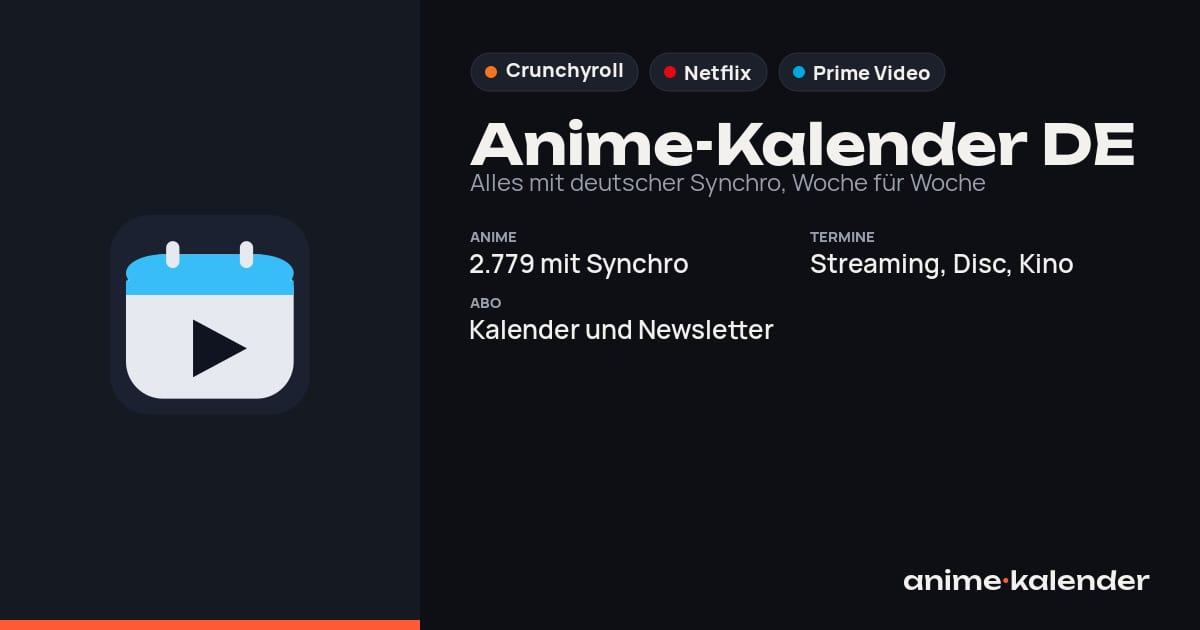
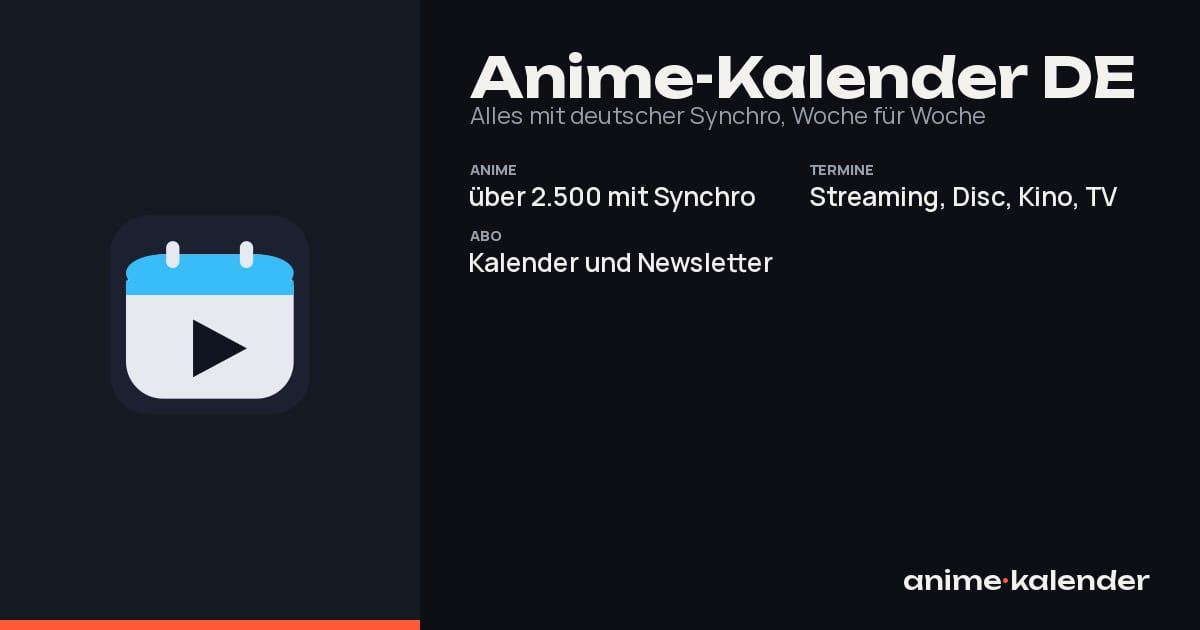
fix(og): Standard-Vorschaubild bleibt aktuell (über 2.900, ohne Plattform-Chips) (#1158)
* refactor(og): Inhalt des Standard-Vorschaubilds nach lib/og-standard.ts (Ausgabe byteidentisch)

Vorher/nachher: default.jpg mit alter und neuer Fassung erzeugt, SHA-1 gleich (61f3bc06...).

* fix(og): Standard-Vorschaubild bleibt aktuell (Kennung statt nur-wenn-fehlt, über 2.900, ohne Plattform-Chips)

Zeichnet default.jpg neu, sobald sich Zahl, Texte oder Fassung ändern (public/og/default.txt); Zahl auf Hunderter abgerundet. og:image von Startseite, Titelseiten und Verzeichnis trägt dieselbe Kennung als ?v=. Test: tools/og-standard.test.ts.

* fix(og): Titelzahl im Standardbild aus belegtCount (über 2.500 mit Synchro)

titleCount (2924) zählt auch Titel ohne belegte Synchro; belegt sind 2546. Test und Kennung angepasst.

* test(og): Meldungstext der Hunderterschwelle nennt 2.600

---------

diff --git a/pipeline/build-share-pages.ts b/pipeline/build-share-pages.ts
@@ -34,6 +34,7 @@ import { titelAenderung } from './lib/sitemap-datum.ts'
 import { cartoonMitSynchroBeleg, teilenPfad } from '../shared/teilen.ts'
 import { synchroBelegt } from '../shared/titles.ts'
 import { OG_FASSUNG } from './lib/og-fassung.ts'
+import { standardKennungFuer } from './lib/og-standard.ts'
 import { seitenQuelle, type SynopsenFuerSeiten } from './lib/handlung-eigen.ts'
 import { ladeAkVon, umleitungen, type AkVon, type KennungsZeile } from './lib/ausgabe-kennung.ts'
 
@@ -369,6 +370,12 @@ ${umfeld.krumenJsonLd}
     </script>`
 }
 
+/** Kennung des Standard-Vorschaubilds zum gebauten Bestand — dieselbe Rechnung wie `build-og.ts`, damit Bild und `?v=` zusammenpassen. */
+function ladeStandardKennung(): string {
+  const { belegtCount } = readJson<{ belegtCount: number }>('public/data/meta.json', { belegtCount: 0 })
+  return standardKennungFuer(belegtCount)
+}
+
 function main(): void {
   const template = readFileSync(resolve(DIST, 'index.html'), 'utf8')
   const start = template.indexOf('<!-- social:start')
@@ -380,6 +387,7 @@ function main(): void {
   const before = template.slice(0, start)
   const after = template.slice(end + '<!-- social:end -->'.length)
 
+  const standardKennung = ladeStandardKennung()
   const releases = readJson<Release[]>('public/data/releases.json', [])
   const titles = readJson<Title[]>('public/data/titles-core.json', [])
   const titleById = new Map(titles.map((t) => [t.id, t]))
@@ -438,8 +446,8 @@ function main(): void {
   const volleTitel = new Map(ladeAlleTitel().map((t) => [t.id, t]))
   schreibeUebersicht(releases, titleById, belegteTermine(releases, volleTitel), today, before, after, ROOT_TAG, adresseVon)
   /* Zuerst die Titelseiten samt Verzeichnis: Die Startseite verlinkt dessen Buchstaben. */
-  const buchstaben = schreibeAlleTitelSeiten(akVon, kennungsZeilen, { before, after, rootTag: ROOT_TAG, today, synopses, jeTitel })
-  schreibeStartseite(releases, titleById, today, template, ROOT_TAG, adresseVon, buchstaben)
+  const buchstaben = schreibeAlleTitelSeiten(akVon, kennungsZeilen, { before, after, rootTag: ROOT_TAG, today, synopses, jeTitel, standardKennung })
+  schreibeStartseite(releases, titleById, today, template, ROOT_TAG, adresseVon, buchstaben, standardKennung)
 }
 
 /** Was jede Titel-Seite gemeinsam hat: die Vorlage um die Marker, der Tag des Baus, Texte und Termine je Titel. */
@@ -450,6 +458,7 @@ interface SeitenRahmen {
   today: string
   synopses: SynopsenFuerSeiten
   jeTitel: Map<number, Release[]>
+  standardKennung: string
 }
 
 /** Der volle Bestand (`titles.json`); `titles-core.json` kennt nicht jeden Titel, den ein Termin nennt. */
@@ -495,7 +504,7 @@ function schreibeTitelSeiten(mitAk: { t: Title; ak: number; adresse: string }[],
     const text = r.synopses[String(t.id)]?.de ?? (t.westlich ? t.synopsis : undefined)
     const synopsis = text ? { text, quelle: seitenQuelle(r.synopses[String(t.id)]) } : undefined
     const umfeld = umfeldFuer(t, `${SITE}${teilenPfad(adresse)}`, umfeldRahmen)
-    const kopf = haupt ? head(haupt, t, r.today, ak, adresse, umfeld) : titelKopf({ ...t, id: ak, slug: adresse }, umfeld)
+    const kopf = haupt ? head(haupt, t, r.today, ak, adresse, umfeld) : titelKopf({ ...t, id: ak, slug: adresse }, umfeld, r.standardKennung)
     const inhalt = haupt
       ? body(haupt, t, synopsis, r.today, eigene.filter((g) => g.slug !== haupt.slug), ak, umfeld)
       : titelInhalt({ ...t, id: ak, slug: adresse }, synopsis, eigene, umfeld)
@@ -644,6 +653,7 @@ function schreibeStartseite(
   rootTag: string,
   adresseVon: (titleId: number) => string,
   buchstaben: Buchstabe[],
+  standardKennung: string,
 ): void {
   const naechste = [...releases]
     .filter((r) => r.schedule.firstEpisodeDate >= today)
@@ -683,7 +693,7 @@ function schreibeStartseite(
     resolve(DIST, 'index.html'),
     template
       .replace(rootTag, `<div id="root">${inhalt}</div>`)
-      .replaceAll('og/default.jpg"', `og/default.jpg?v=${OG_FASSUNG}"`)
+      .replaceAll('og/default.jpg"', `og/default.jpg?v=${standardKennung}"`)
       .replace(
         '</head>',
         `    <script type="application/ld+json">${JSON.stringify(startDaten)}</script>\n  </head>`,

diff --git a/tools/og-standard.test.ts b/tools/og-standard.test.ts
@@ -1,0 +1,57 @@
+/**
+ * **Das Standard-Vorschaubild bleibt aktuell, ohne bei jedem Titel zu wechseln** (13.10.2026).
+ *
+ * Vorher zeichnete `build-og.ts` `default.jpg` nur, wenn die Datei fehlte; die Zahl blieb stehen
+ * („2.779 mit Synchro" bei 2.924 Titeln, belegt waren 2.546; die Zahl zählt jetzt nur Belegtes). „Spätestens nach X sichtbar": Sobald der Bestand die
+ * nächste Hunderterschwelle erreicht, ändert sich die Kennung — und damit Bild und Bildadresse.
+ *
+ * Aufruf: `npx tsx tools/og-standard.test.ts`
+ */
+import { existsSync, readFileSync } from 'node:fs'
+import { resolve } from 'node:path'
+import { ROOT, readJson } from '../pipeline/lib/util.ts'
+import { mussNeuZeichnen, standardBildAdresse, standardKarte, standardKennung, standardKennungFuer, titelzahlText } from '../pipeline/lib/og-standard.ts'
+
+let fehler = 0
+const pruefe = (bedingung: boolean, text: string) => {
+  console.log(`  ${bedingung ? 'ok  ' : 'FEHL'} ${text}`)
+  if (!bedingung) fehler++
+}
+const kennung = (n: number) => standardKennung(standardKarte(n))
+
+pruefe(titelzahlText(2546) === 'über 2.500 mit Synchro', `2546 -> „${titelzahlText(2546)}"`)
+pruefe(titelzahlText(2500) === titelzahlText(2599), 'Spanne 2500..2599 gleicher Text')
+pruefe(titelzahlText(2600) === 'über 2.600 mit Synchro', '2600 -> über 2.600')
+
+pruefe(kennung(2546) === kennung(2599), 'Neue Titel innerhalb der Hunderter ändern die Kennung nicht (kein Commit je Titel)')
+pruefe(kennung(2599) !== kennung(2600), 'Die nächste Hunderterschwelle ändert die Kennung (Bild spätestens dann neu)')
+pruefe(standardKarte(2546).badges.length === 0, 'Keine Plattform-Chips (Termine-Zeile nennt das Wo schon)')
+
+pruefe(mussNeuZeichnen(true, kennung(2450), kennung(2546), false), 'Alte Kennung -> neu zeichnen (ohne den Fix blieb es beim vorhandenen Bild)')
+pruefe(!mussNeuZeichnen(true, `${kennung(2546)}\n`, kennung(2546), false), 'Gleiche Kennung -> nicht neu zeichnen')
+pruefe(mussNeuZeichnen(false, kennung(2546), kennung(2546), false), 'Bild fehlt -> zeichnen')
+pruefe(mussNeuZeichnen(true, undefined, kennung(2546), false), 'Keine abgelegte Kennung -> zeichnen')
+pruefe(mussNeuZeichnen(true, kennung(2546), kennung(2546), true), '--force -> zeichnen')
+
+const { belegtCount } = readJson<{ belegtCount: number }>('public/data/meta.json', { belegtCount: 0 })
+pruefe(standardKennungFuer(belegtCount) === kennung(belegtCount), `Kennung für den Bestand (${belegtCount} belegte Titel)`)
+pruefe(standardBildAdresse('https://x/', kennung(belegtCount)).endsWith(`og/default.jpg?v=${kennung(belegtCount)}`), 'Bildadresse trägt die Kennung')
+
+/* Nach dem Seitenbau (`dist/`): Startseite und Verzeichnis zeigen genau die Adresse, zu der das Bild gehört. */
+const start = resolve(ROOT, 'dist/index.html')
+const verzeichnis = resolve(ROOT, 'dist/titel/index.html')
+for (const datei of [start, verzeichnis]) {
+  if (!existsSync(datei)) continue
+  const html = readFileSync(datei, 'utf8')
+  pruefe(html.includes(`og/default.jpg?v=${kennung(belegtCount)}`), `${datei.slice(ROOT.length + 1)}: og:image trägt die Kennung des Bilds`)
+}
+
+const datei = resolve(ROOT, 'public/og/default.txt')
+const abgelegt = existsSync(datei) ? readFileSync(datei, 'utf8').trim() : ''
+pruefe(abgelegt === kennung(belegtCount), `Das abgelegte Bild gehört zum Bestand (abgelegt „${abgelegt}", erwartet „${kennung(belegtCount)}")`)
+
+if (fehler) {
+  console.error(`${fehler} Prüfung(en) rot`)
+  process.exit(1)
+}
+console.log('og-standard: alles ok')

diff --git a/pipeline/build-og.ts b/pipeline/build-og.ts
@@ -19,6 +19,7 @@ import { GENRE_DE } from '../shared/mappings.ts'
 import { ROOT, log, readJson, warn } from './lib/util.ts'
 import { zeichneKarte } from './lib/og-karte.ts'
 import { OG_FASSUNG } from './lib/og-fassung.ts'
+import { mussNeuZeichnen, standardKarte, standardKennung } from './lib/og-standard.ts'
 
 const OUT_DIR = resolve(ROOT, 'public/og')
 const COVER_CACHE = resolve(ROOT, 'data/cache/covers')
@@ -81,6 +82,20 @@ function terminZeilen(release: Release, events: ReturnType<typeof expandEvents>,
   return zeilen
 }
 
+/** Standardbild neu zeichnen, wenn die abgelegte Kennung nicht mehr zu seinen Eingaben passt (`lib/og-standard.ts`). */
+async function standardBild(): Promise<void> {
+  const datei = resolve(OUT_DIR, 'default.jpg')
+  const kennungDatei = resolve(OUT_DIR, 'default.txt')
+  const { belegtCount } = readJson<{ belegtCount: number }>('public/data/meta.json', { belegtCount: 0 })
+  const karte = standardKarte(belegtCount)
+  const kennung = standardKennung(karte)
+  const abgelegt = existsSync(kennungDatei) ? readFileSync(kennungDatei, 'utf8') : undefined
+  if (NUR ? !NUR.has('default') : !mussNeuZeichnen(existsSync(datei), abgelegt, kennung, FORCE)) return
+  await zeichneKarte(karte, undefined, datei)
+  writeFileSync(kennungDatei, `${kennung}\n`)
+  log('Standard-Vorschaubild geschrieben')
+}
+
 // Titel aus Kern und `titles.json`: Der Kern kennt nur Titel, deren Release beim Schreiben schon feststand („Im Angebot seit" kommt später); Cartoons stehen nur im Kern.
 async function main(): Promise<void> {
   const releases = readJson<Release[]>('public/data/releases.json', [])
@@ -91,29 +106,7 @@ async function main(): Promise<void> {
   mkdirSync(OUT_DIR, { recursive: true })
 
   // --- Standardbild für Links ohne Release ---------------------------------
-  const defaultFile = resolve(OUT_DIR, 'default.jpg')
-  if (NUR ? NUR.has('default') : FORCE || !existsSync(defaultFile)) {
-    await zeichneKarte(
-      {
-        title: 'Anime-Kalender DE',
-        subtitle: 'Alles mit deutscher Synchro, Woche für Woche',
-        lines: [
-          { label: 'Anime', value: `${readJson<{ titleCount: number }>('public/data/meta.json', { titleCount: 0 }).titleCount.toLocaleString('de-DE')} mit Synchro` },
-          { label: 'Termine', value: 'Streaming, Disc, Kino' },
-          { label: 'Abo', value: 'Kalender und Newsletter' },
-        ],
-        badges: [
-          { text: 'Crunchyroll', color: PLATFORMS.crunchyroll.color },
-          { text: 'Netflix', color: PLATFORMS.netflix.color },
-          { text: 'Prime Video', color: PLATFORMS.primevideo.color },
-        ],
-        accent: '#ff5a36',
-      },
-      undefined,
-      defaultFile,
-    )
-    log('Standard-Vorschaubild geschrieben')
-  }
+  await standardBild()
 
   // --- Ein Bild je Release --------------------------------------------------
   let written = 0

diff --git a/pipeline/lib/titel-verzeichnis.ts b/pipeline/lib/titel-verzeichnis.ts
@@ -7,7 +7,7 @@
 import { mkdirSync, writeFileSync } from 'node:fs'
 import { resolve } from 'node:path'
 import { teilenPfad } from '../../shared/teilen.ts'
-import { OG_FASSUNG } from './og-fassung.ts'
+import { standardBildAdresse } from './og-standard.ts'
 import { ARTIKEL_STIL, SITE, esc } from './titel-seite.ts'
 import { LINK_STIL, START_KRUME, UEBERSCHRIFT_2, VERZEICHNIS_KRUME, brotkrumenHtml, brotkrumenJsonLd, type Krume } from './titel-umfeld.ts'
 import { buchstabenLabel, verzeichnisSchluessel } from './verzeichnis-buchstabe.ts'
@@ -28,6 +28,8 @@ export interface SeitenVorlage {
   before: string
   after: string
   rootTag: string
+  /** Kennung des Standard-Vorschaubilds (`og-standard.ts`), hängt als `?v=` an dessen Adresse. */
+  standardKennung: string
 }
 
 const VERZEICHNIS_STIL = '<style>.vz a{color:#7dd3fc}</style>'
@@ -62,8 +64,8 @@ function titelZeile(e: VerzeichnisTitel): string {
   return `<li><a href="${SITE}${teilenPfad(e.adresse)}">${esc(e.name)}</a>${vermerk}</li>`
 }
 
-function kopf(titel: string, beschreibung: string, url: string, krumen: Krume[]): string {
-  const bild = `${SITE}og/default.jpg?v=${OG_FASSUNG}`
+function kopf(titel: string, beschreibung: string, url: string, krumen: Krume[], standardKennung: string): string {
+  const bild = standardBildAdresse(SITE, standardKennung)
   return (
     `    <title>${esc(titel)}</title>\n` +
     `    <meta name="description" content="${esc(beschreibung)}" />\n` +
@@ -125,6 +127,7 @@ export function schreibeVerzeichnis(dist: string, v: SeitenVorlage, eintraege: V
       `Alle ${summe} Anime und Animationsserien im Kalender von A bis Z: Synchro-Stand, Anbieter und Termine je Titel.`,
       `${SITE}titel/`,
       [START_KRUME, VERZEICHNIS_KRUME],
+      v.standardKennung,
     ),
     uebersichtInhalt(buchstaben, unbelegt),
   )
@@ -132,7 +135,8 @@ export function schreibeVerzeichnis(dist: string, v: SeitenVorlage, eintraege: V
     const label = buchstabenLabel(schluessel)
     const krumen = [START_KRUME, VERZEICHNIS_KRUME, { name: label, url: `${SITE}titel/${schluessel}/` }]
     const beschreibung = `${liste.length} Anime mit ${label}, von „${liste[0]!.name}“ bis „${liste[liste.length - 1]!.name}“: Synchro-Stand, Anbieter und Termine.`
-    schreibeSeite(dist, v, `titel/${schluessel}`, kopf(`Anime mit ${label}: Synchro, Anbieter und Termine`, beschreibung, `${SITE}titel/${schluessel}/`, krumen), buchstabenInhalt(schluessel, liste, buchstaben))
+    const kopfHtml = kopf(`Anime mit ${label}: Synchro, Anbieter und Termine`, beschreibung, `${SITE}titel/${schluessel}/`, krumen, v.standardKennung)
+    schreibeSeite(dist, v, `titel/${schluessel}`, kopfHtml, buchstabenInhalt(schluessel, liste, buchstaben))
   }
   return buchstaben
 }

diff --git a/pipeline/lib/og-standard.ts b/pipeline/lib/og-standard.ts
@@ -1,0 +1,55 @@
+/**
+ * Inhalt und Kennung des Standard-Vorschaubilds (`public/og/default.jpg`).
+ *
+ * Das Bild trägt die Titelzahl. Es wird neu gezeichnet, sobald sich seine Eingaben ändern (Kennung
+ * neben der Datei in `public/og/default.txt`), und die Seiten hängen dieselbe Kennung als `?v=` an
+ * die Bildadresse — Messenger holen sonst das alte Bild zur alten Adresse (13.10.2026: Vorschau
+ * zeigte „2.779 mit Synchro", der Bestand hatte 2.924).
+ */
+import { createHash } from 'node:crypto'
+import { OG_FASSUNG } from './og-fassung.ts'
+import type { KartenDaten } from './og-karte.ts'
+
+/** Belegte Titel (`belegtCount`), auf Hunderter abgerundet: Ein neuer Titel soll nicht jedes Mal ein neues Bild (und einen Commit) auslösen. */
+export function titelzahlText(belegtCount: number): string {
+  const rund = Math.floor(belegtCount / 100) * 100
+  return `über ${rund.toLocaleString('de-DE')} mit Synchro`
+}
+
+/**
+ * Keine Plattform-Chips: „Streaming, Disc, Kino, TV" nennt schon, wo die Termine stehen; eine
+ * Rangliste einzelner Anbieter würde das wiederholen und mit jedem Datenlauf wandern.
+ */
+export function standardKarte(belegtCount: number): KartenDaten {
+  return {
+    title: 'Anime-Kalender DE',
+    subtitle: 'Alles mit deutscher Synchro, Woche für Woche',
+    lines: [
+      { label: 'Anime', value: titelzahlText(belegtCount) },
+      { label: 'Termine', value: 'Streaming, Disc, Kino, TV' },
+      { label: 'Abo', value: 'Kalender und Newsletter' },
+    ],
+    badges: [],
+    accent: '#ff5a36',
+  }
+}
+
+/** Fingerabdruck aller Eingaben des Bilds samt Gestaltungsfassung. */
+export function standardKennung(karte: KartenDaten): string {
+  return createHash('sha1').update(OG_FASSUNG).update(JSON.stringify(karte)).digest('hex').slice(0, 8)
+}
+
+/** Zeichnen, wenn das Bild fehlt, erzwungen wird oder die abgelegte Kennung nicht mehr passt. */
+export function mussNeuZeichnen(vorhanden: boolean, abgelegt: string | undefined, kennung: string, erzwungen: boolean): boolean {
+  return erzwungen || !vorhanden || abgelegt?.trim() !== kennung
+}
+
+/** Kennung zum Bestand mit `belegtCount` belegten Titeln. */
+export function standardKennungFuer(belegtCount: number): string {
+  return standardKennung(standardKarte(belegtCount))
+}
+
+/** Bildadresse für `og:image`; die Kennung ersetzt die Gestaltungsfassung allein. */
+export function standardBildAdresse(site: string, kennung: string): string {
+  return `${site}og/default.jpg?v=${kennung}`
+}

diff --git a/pipeline/lib/titel-seite.ts b/pipeline/lib/titel-seite.ts
@@ -7,7 +7,7 @@ import { GENRE_DE } from '../../shared/mappings.ts'
 import { teilenPfad } from '../../shared/teilen.ts'
 import { synchroBelegt } from '../../shared/titles.ts'
 import { andereNamen, titelJsonLd } from './titel-namen.ts'
-import { OG_FASSUNG } from './og-fassung.ts'
+import { standardBildAdresse } from './og-standard.ts'
 import type { Umfeld } from './titel-umfeld.ts'
 
 export const SITE = (process.env.SITE_URL ?? 'https://anime-kalender.de/').replace(
@@ -98,14 +98,14 @@ export function namenZeile(t: Title | undefined, gezeigt: string): string {
   return andere.length ? `<p style="margin:0 0 1rem;color:#9aa5bd;">Auch bekannt als: ${andere.map(esc).join(' · ')}</p>` : ''
 }
 
-export function titelKopf(t: Title, umfeld: Umfeld, mitTermin = false): string {
+export function titelKopf(t: Title, umfeld: Umfeld, standardKennung: string, mitTermin = false): string {
   const url = `${SITE}${teilenPfad(t.slug)}`
   const name = titelName(t)
   const headline = seitenTitel(name, t, mitTermin)
   const description = titelBeschreibung(t)
   /* Ohne eigenes Bild das Standardbild der Seite (1200×630): Eine Karte ohne Bild wäre leer. */
   const eigenesBild = t.bannerImage ?? t.coverImage
-  const bild = eigenesBild ?? `${SITE}og/default.jpg?v=${OG_FASSUNG}`
+  const bild = eigenesBild ?? standardBildAdresse(SITE, standardKennung)
   const gross = Boolean(t.bannerImage) || !eigenesBild
   const masse = eigenesBild ? '' : '    <meta property="og:image:width" content="1200" />\n    <meta property="og:image:height" content="630" />\n'
   return `    <title>${esc(headline)}</title>

diff --git a/pipeline/check-seiten-seo.ts b/pipeline/check-seiten-seo.ts
@@ -65,7 +65,7 @@ const titel = (id: number, dubConfidence: Title['dubConfidence'], keywords: stri
   const aufbau = (mitVerzeichnis: boolean): Map<string, number> => {
     const dist = mkdtempSync(join(tmpdir(), 'seiten-seo-'))
     try {
-      const vorlage = { before: '<html><head>', after: '</head><body><div id="root"></div></body></html>', rootTag: '<div id="root"></div>' }
+      const vorlage = { before: '<html><head>', after: '</head><body><div id="root"></div></body></html>', rootTag: '<div id="root"></div>', standardKennung: 'abcd1234' }
       const buchstaben = mitVerzeichnis ? schreibeVerzeichnis(dist, vorlage, titelListe) : []
       writeFileSync(join(dist, 'index.html'), startseiteInhalt('', 0, buchstaben))
       for (const e of titelListe) {

diff --git a/docs/wissen/datensatz.md b/docs/wissen/datensatz.md
@@ -457,6 +457,16 @@ links, Anbieter-Chips, Titel in Unbounded, Eckdaten als Raster, Wortmarke. Zu wi
 - Titelseiten (`/t/…`) behalten Banner oder Cover von AniList: eigene Bilder für 2.781 Titel wären
   rund 170 MB zusätzlich im Repo (899 Release-Bilder = 54 MB).
 
+## Standard-Vorschaubild bleibt aktuell (13.10.2026)
+
+`og/default.jpg` wurde nur gezeichnet, wenn die Datei fehlte; die Zahl blieb stehen (Vorschau zeigte
+2.779 bei 2.924 Titeln). Jetzt bildet `lib/og-standard.ts` aus den Eingaben des Bilds eine Kennung
+(`public/og/default.txt`); `build-og.ts` zeichnet neu, sobald sie abweicht. Die Zahl ist auf Hunderter
+abgerundet („über 2.500"; die Zahl kommt aus `belegtCount`, nur belegte Synchro zählt), damit nicht jeder neue Titel einen Commit auslöst. Dieselbe Kennung hängt als
+`?v=` an `og/default.jpg` (Startseite, Titelseiten, Verzeichnis) — sonst hielten Messenger das alte Bild
+zur alten Adresse. Keine Plattform-Chips mehr: „Streaming, Disc, Kino, TV" sagt das Wo schon.
+Prüfung: `tools/og-standard.test.ts` (Teil von `check:teilseiten`), auch dass das abgelegte Bild zum Bestand passt.
+
 ## Neuigkeiten im Detail-Panel (27.09.2026)
 
 Daniel: News eines Titels direkt im Panel sehen und zur Quelle springen. `detail/neuigkeiten.tsx`
